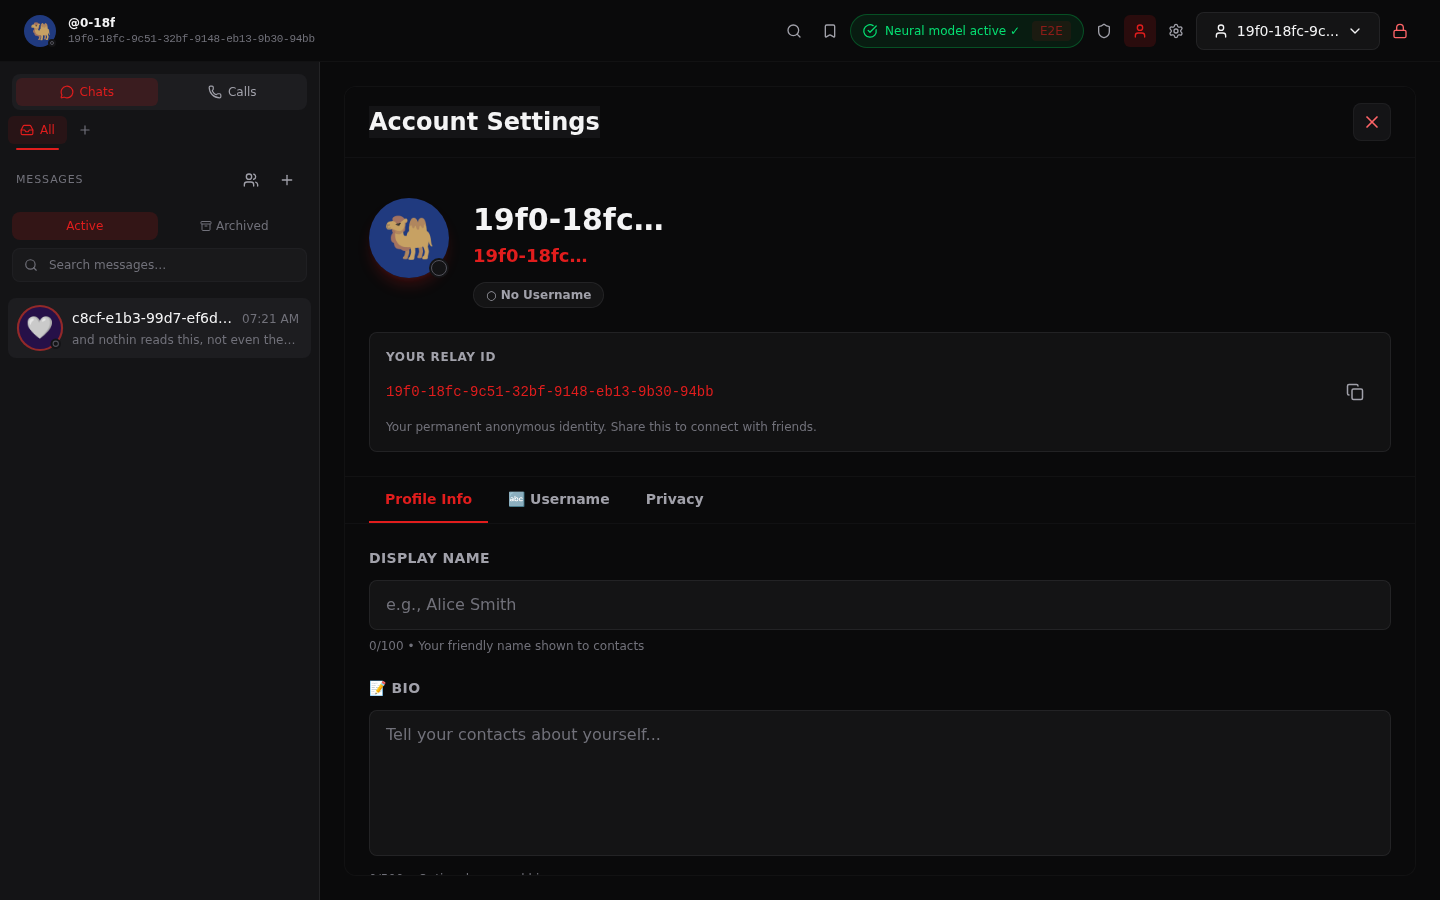
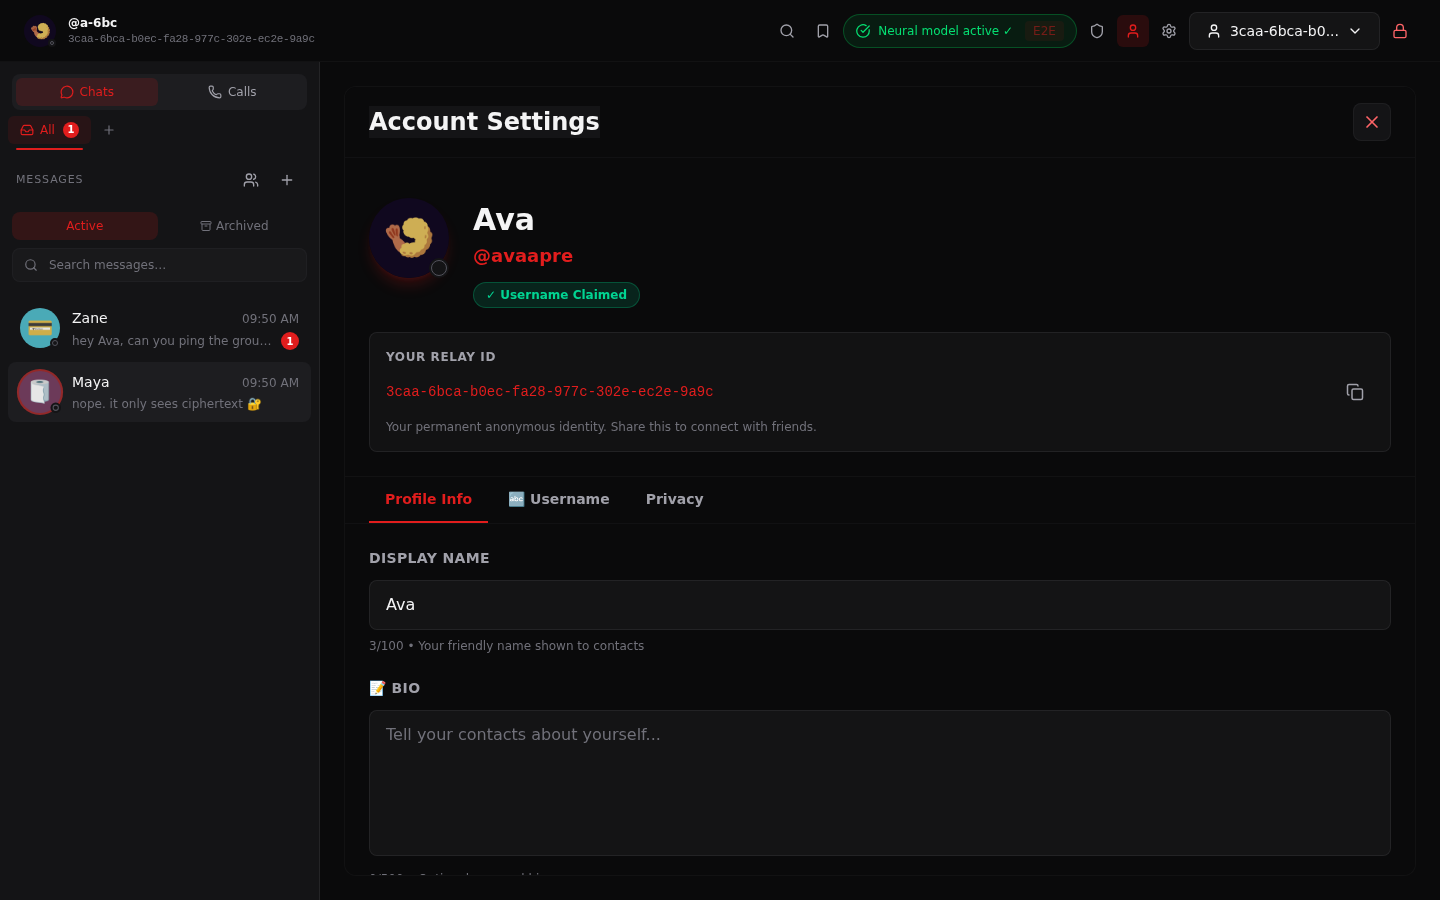
screenshots: multi-chat messenger with named contacts + theme variants

diff --git a/README.md b/README.md
@@ -140,6 +140,21 @@ The full backup → restore cycle is described in [`docs/DEPLOY.md`](docs/DEPLOY
 
 </div>
 
+### Themes
+
+Nine selectable themes (default: crimson). A few of them, on the live
+messenger:
+
+<div align="center">
+
+![Ocean](docs/screenshots/messenger-ocean.png)
+
+![Arctic (light)](docs/screenshots/messenger-arctic.png)&nbsp;
+![Violet](docs/screenshots/messenger-violet.png)&nbsp;
+![Forest](docs/screenshots/messenger-forest.png)
+
+</div>
+
 ## How it works
 
 ```
@@ -150,15 +165,15 @@ The full backup → restore cycle is described in [`docs/DEPLOY.md`](docs/DEPLOY
 │  • encrypt/decrypt       │                │  ┌────────────┐   ┌─────────┐  │
 │  • local encrypted store │  WSS (relay)   │  │  app :3000 │   │ relay   │  │
 │    (IndexedDB, HKDF)     │  ────────────▶ │  │  Next.js   │   │ :8080   │  │
-└──────────────────────────┘                │  │  server    │   │WebSocket│  │
+└──────────────────────────┘                │  │  server    │   │ WebSocket│  │
                                             │  └─────┬──────┘   └────┬────┘  │
                                             │        └──────┬─────────┘      │
-                                            │               ▼                │
-                                            │        ┌──────────────┐        │
-                                            │        │ SQLite       │        │
-                                            │        │ (sessions,   │        │
-                                            │        │  keys, dirs) │        │
-                                            │        └──────────────┘        │
+                                            │               ▼               │
+                                            │        ┌──────────────┐       │
+                                            │        │ SQLite       │       │
+                                            │        │ (sessions,   │       │
+                                            │        │  keys, dirs) │       │
+                                            │        └──────────────┘       │
                                             └────────────────────────────────┘
 ```
 
